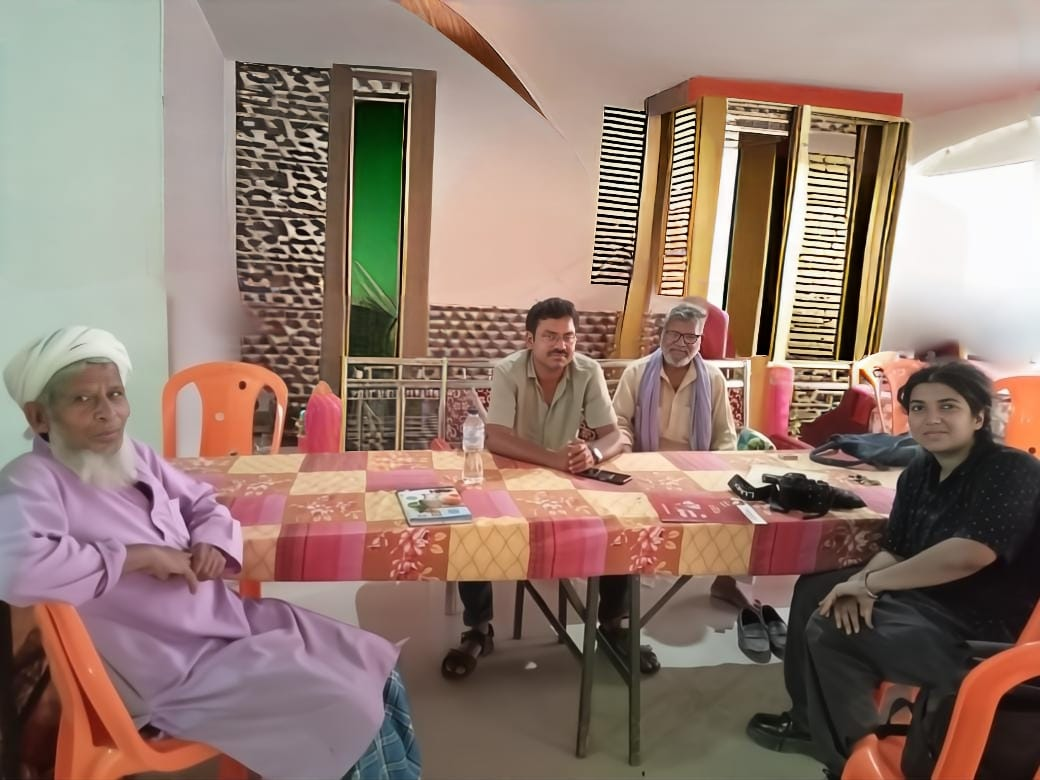
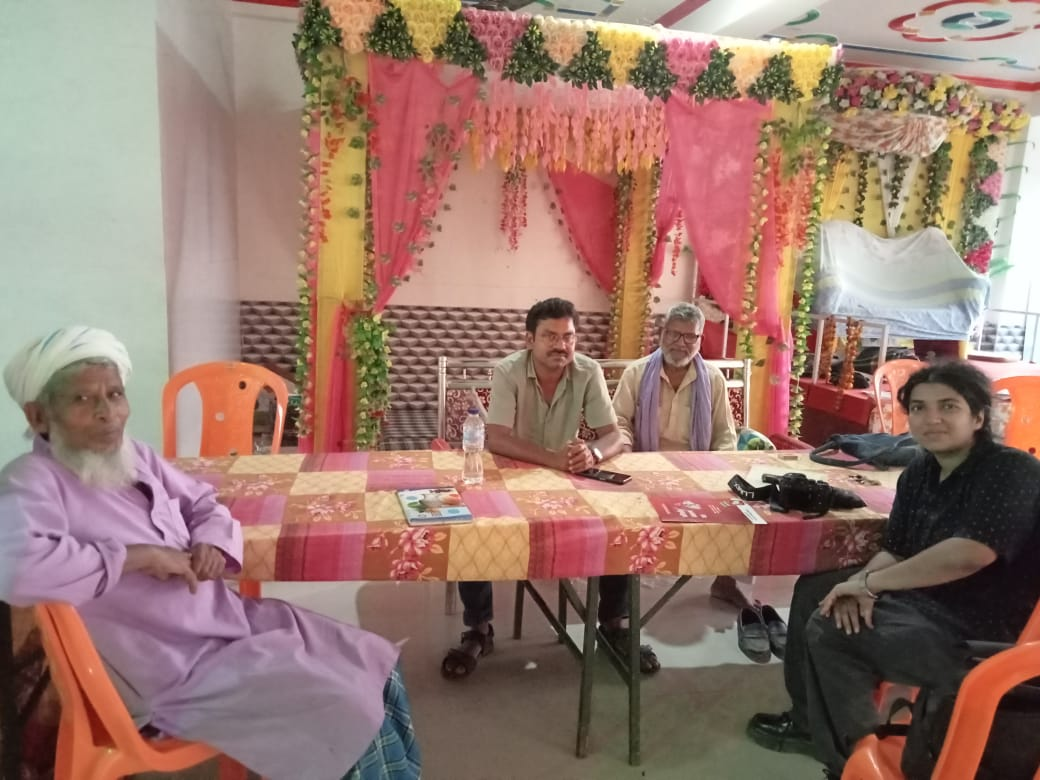
some changes

diff --git a/applications/home/app/styles/app.scss b/applications/home/app/styles/app.scss
@@ -3,10 +3,10 @@
 // $font-family-sans-serif: "IBM Plex Mono", serif !default;
 // $display-font-family: "IBM Plex Mono", serif !default;
 
-@font-face {
-  font-family: "rnc";
-  src: url("/assets/R&C-Demo.otf") format("opentype");
-}
+// @font-face {
+//   font-family: "rnc";
+//   src: url("/assets/R&C-Demo.otf") format("opentype");
+// }
 
 @font-face {
   font-family: "dagh";
@@ -109,8 +109,8 @@ hr {
   background-position: center;
 }
 
-h2 {
-  font-family: 'rnc';
+h1 {
+  // font-family: 'rnc';
   font-weight: 700;
   font-size: 78px;
   margin-bottom: 30px;
@@ -122,15 +122,15 @@ h2 {
 
 /* 768px se niche font chhota */
 @media (max-width: 768px) {
-  h2 {
+  h1 {
     font-size: 45px;
   }
 }
 
 /* 500px se niche aur chhota */
 @media (max-width: 500px) {
-  h2 {
-    font-size: 38px;
+  h1 {
+    font-size: 28px;
   }
 }
 
@@ -186,6 +186,7 @@ p{
     font-size: 19;
   }
 }
+
 strong{
   color: white;
 }
@@ -225,4 +226,26 @@ strong{
 
   a:hover .move-arrow {
     transform: translateX(4px); /* arrow thoda right move hoga */
+  }
+
+  .same-height-video {
+    height: 250px;       /* ← yaha aap value change kar sakti ho */
+    object-fit: cover;   /* video ko same size banata hai */
+    width: 100%;
+  }
+
+  .fb-video-wrapper {
+    position: relative;
+    width: 100%;
+    padding-bottom: 56.25%; /* 16:9 ratio */
+    height: 0;
+  }
+
+  .fb-video-wrapper iframe {
+    position: absolute;
+    top: 0;
+    left: 0;
+    width: 100%;
+    height: 100%;
+    border: none;
   }
